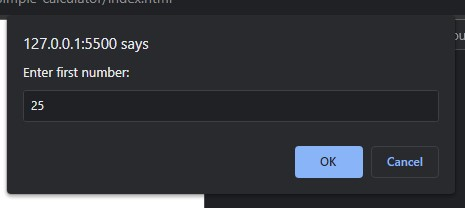
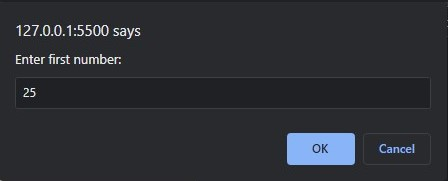
update: image reformatting

diff --git a/Simple-calculator/README.md b/Simple-calculator/README.md
@@ -1,12 +1,19 @@
 # Exercise description
-
+```
 - Accept two numbers from user.
-- If not numbers returns "Not a number"
 - Select operation between 1.Addition, 2.Subtraction, 3.Multiplication and 4.Division
-- If operation selected not other than above operations (1-4), returns "Invalid Operation"
 - Returns result according to selected operation.
+   ```
+![alt text](Images/input1.jpg)
+![alt text](Images/input2.jpg)
+![alt text](Images/operation.jpg)
+![alt text](Images/result.jpg)
 
-![alt text](images/input1.jpg)
-![alt text](images/input2.jpg)
-![alt text](images/operation.jpg)
-![alt text](images/result.jpg)
+
+```
+- If any of the input is not a number, stops the operation and return "Not a number"
+- If non other than (1-4) operation is selected, returns "Invalid Operation"
+```
+![alt text](Images/input2wrong.jpg)
+![alt text](Images/OutputNaN.jpg)
+![alt text](Images/OutputInvalidOperation.jpg)
